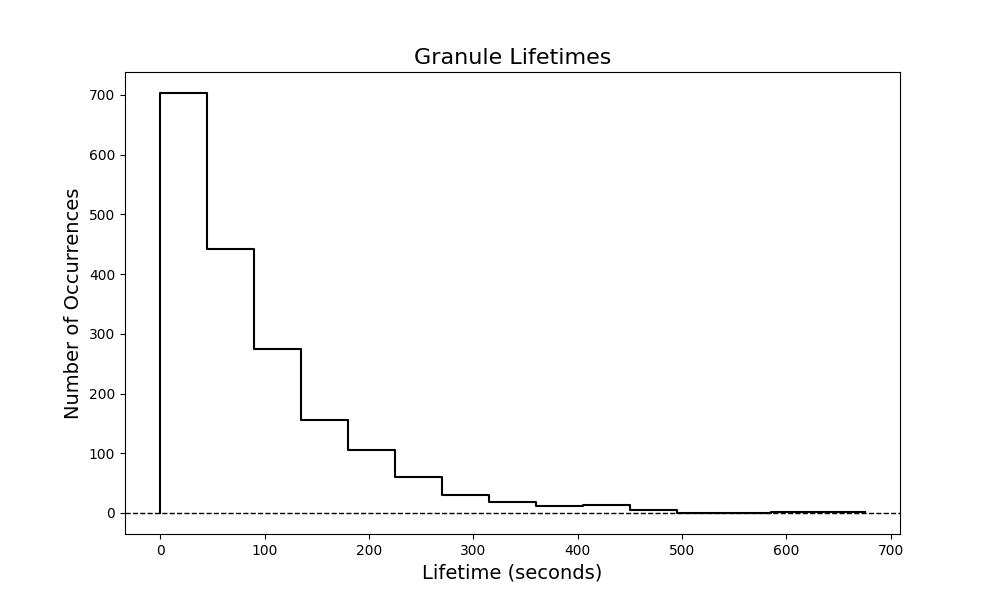
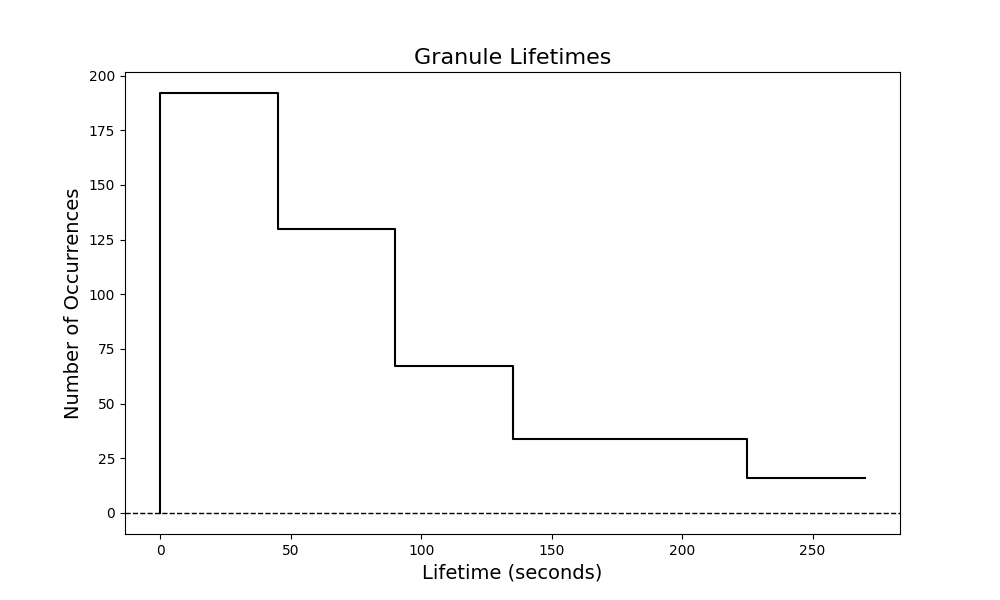
almost done

diff --git a/src/__main__.py b/src/__main__.py
@@ -18,7 +18,7 @@ file_folder = "NOAA_0-Fe/FITS_files"
 flow_velocity_threshold = 5 # km/s
 
 # Define minimum granule lifetime threshold in seconds (preferably a multiple of cadence)
-lifetime_threshold = 5 * 60  # seconds
+lifetime_threshold = 135  # seconds
 
 # Define data cadence
 cadence = 45  # seconds
@@ -31,128 +31,130 @@ roi_center = [0, 0] # Bottom-left corner of the region of interest (arcsecond co
 # Number of consective frames to process
 #num_frames =  #len(os.listdir(file_folder))  # Get the number of frames in the folder
 
-for num_frames in range(7, 36):
+#for num_frames in range(7, 36):
 
-    # Total time interval in seconds
-    temporal_window = num_frames * cadence
+num_frames = 7
 
-
-
-    trajectories_list = trajectories(num_frames, file_folder, flow_velocity_threshold, roi_size, roi_center)
-
-    filtered_trajectories = [
-        traj for traj in trajectories_list
-        if len(traj["frames"]) * cadence >= lifetime_threshold
-    ]
-
-    velocity_field = velocityField(filtered_trajectories, cadence)
+# Total time interval in seconds
+temporal_window = num_frames * cadence
 
 
 
-    ##### Wavelet MRA smoothing of the velocity field #####
+trajectories_list = trajectories(num_frames, file_folder, flow_velocity_threshold, roi_size, roi_center)
 
-    # Extract positions and velocities from the velocity field
-    positions = np.array([v["mean_position"] for v in velocity_field])
-    vx = np.array([v["velocity"][0].value for v in velocity_field])  # Extract x-component of velocity
-    vy = np.array([v["velocity"][1].value for v in velocity_field])  # Extract y-component of velocity
+filtered_trajectories = [
+    traj for traj in trajectories_list
+    if len(traj["frames"]) * cadence >= lifetime_threshold
+]
 
-    # Calculate the mean distance between nearest-neighbour points in the velocity field and store to a file for plotting
-    meanDistance(positions, temporal_window)
-
-    # Define grid resolution (must be dyadic?) #! This requires adjustment.
-    grid_resolution = 32
-
-    # Create a dyadic grid for the wavelet transform ????
-    xi = np.linspace(roi_center[0], roi_center[0] + roi_size*2, grid_resolution)  # X range based on region of interest
-    yi = np.linspace(roi_center[1], roi_center[1] + roi_size*2, grid_resolution)  # Y range based on region of interest
-    grid_x, grid_y = np.meshgrid(xi, yi)    # Create a meshgrid for the grid points
-
-    # Interpolate the velocities onto the grid using RBFInterpolator
-    rbf_vx = RBFInterpolator(positions, vx, kernel='thin_plate_spline') # What kernel to use and why?
-    rbf_vy = RBFInterpolator(positions, vy, kernel='thin_plate_spline')
-    grid_vx = rbf_vx(np.column_stack([grid_x.ravel(), grid_y.ravel()])).reshape(grid_x.shape)
-    grid_vy = rbf_vy(np.column_stack([grid_x.ravel(), grid_y.ravel()])).reshape(grid_y.shape)
-
-    # Apply wavelet MRA smoothing to the velocity grid
-    smoothed_vx = mraSmoothing(grid_vx, wavelet='db4', levels=2)
-    smoothed_vy = mraSmoothing(grid_vy, wavelet='db4', levels=2)
+velocity_field = velocityField(filtered_trajectories, cadence)
 
 
 
-    ########### Plotting the results ###########
-    print("\nCalculations complete! Plotting results:")
+##### Wavelet MRA smoothing of the velocity field #####
 
-    # Plot the trajectories and velocity field side by side
-    fig, axs = plt.subplots(2, 2, figsize=(20, 20))  # Create two subplots side by side
+# Extract positions and velocities from the velocity field
+positions = np.array([v["mean_position"] for v in velocity_field])
+vx = np.array([v["velocity"][0].value for v in velocity_field])  # Extract x-component of velocity
+vy = np.array([v["velocity"][1].value for v in velocity_field])  # Extract y-component of velocity
 
-    # Plot the trajectories
-    for trajectory in trajectories_list:
-        positions = np.array(trajectory["positions"])
-        axs[0,0].plot(positions[:, 0], positions[:, 1], marker='x', label=f'Trajectory {trajectory["id"]}')
-        axs[0,0].text(positions[-1, 0], positions[-1, 1], str(trajectory["id"]), fontsize=8, color='red')
+# Calculate the mean distance between nearest-neighbour points in the velocity field and store to a file for plotting
+meanDistance(positions, temporal_window)
 
-    axs[0,0].set_title("Trajectories")
-    axs[0,0].set_xlabel("X Position (pixels)")
-    axs[0,0].set_ylabel("Y Position (pixels)")
+# Define grid resolution (must be dyadic?) #! This requires adjustment.
+grid_resolution = 32
 
+# Create a dyadic grid for the wavelet transform ????
+xi = np.linspace(roi_center[0], roi_center[0] + roi_size*2, grid_resolution)  # X range based on region of interest
+yi = np.linspace(roi_center[1], roi_center[1] + roi_size*2, grid_resolution)  # Y range based on region of interest
+grid_x, grid_y = np.meshgrid(xi, yi)    # Create a meshgrid for the grid points
 
-    # Plot the velocity field
-    for velocity_data in velocity_field:
-        mean_position = velocity_data["mean_position"]
-        velocity = velocity_data["velocity"]
+# Interpolate the velocities onto the grid using RBFInterpolator
+rbf_vx = RBFInterpolator(positions, vx, kernel='thin_plate_spline') # What kernel to use and why?
+rbf_vy = RBFInterpolator(positions, vy, kernel='thin_plate_spline')
+grid_vx = rbf_vx(np.column_stack([grid_x.ravel(), grid_y.ravel()])).reshape(grid_x.shape)
+grid_vy = rbf_vy(np.column_stack([grid_x.ravel(), grid_y.ravel()])).reshape(grid_y.shape)
 
-        # Plot velocity vector as an arrow
-        axs[0,1].quiver(
-            mean_position[0], mean_position[1],  # Starting point of the arrow
-            velocity[0].value, velocity[1].value,  # Velocity components (x, y)
-            angles='xy', scale_units='xy', scale=1, label='Velocity'
-        )
-
-    axs[0,1].set_title("Velocity Field")
-    axs[0,1].set_xlabel("X Position (pixels)")
-    axs[0,1].set_ylabel("Y Position (pixels)")
-
-    axs[1,0].quiver(grid_x, grid_y, grid_vx, grid_vy, scale=1, scale_units='xy')
-    axs[1,0].set_title("Interpolated Velocity Field")
-
-    axs[1,1].quiver(grid_x, grid_y, smoothed_vx, smoothed_vy, scale=1, scale_units='xy')
-    axs[1,1].set_title("Smoothed Velocity Field")
-
-
-    # Add a shared title for the figure
-    fig.suptitle("Velocity Field", fontsize=16)
-
-    # Save the plot
-    os.makedirs('plots', exist_ok=True)
-    output_path = os.path.join('plots', 'MRA_velocity_field.png')
-    plt.savefig(output_path)
-    print(f"Velocity field plots saved to {output_path}")
+# Apply wavelet MRA smoothing to the velocity grid
+smoothed_vx = mraSmoothing(grid_vx, wavelet='db4', levels=2)
+smoothed_vy = mraSmoothing(grid_vy, wavelet='db4', levels=2)
 
 
 
-    # Extract granule lifetimes from trajectories
-    granule_lifetimes = [len(traj["frames"]) * cadence for traj in trajectories_list]  # Lifetime in seconds
+########### Plotting the results ###########
+print("\nCalculations complete! Plotting results:")
 
-    # Define bins based on valid multiples of cadence
-    max_lifetime = max(granule_lifetimes)  # Maximum lifetime
-    bins = np.arange(0, max_lifetime + cadence, cadence)  # Bins at intervals of cadence
+# Plot the trajectories and velocity field side by side
+fig, axs = plt.subplots(2, 2, figsize=(20, 20))  # Create two subplots side by side
 
-    # Create a histogram of granule lifetimes
-    plt.figure(figsize=(10, 6))
-    counts, bin_edges = np.histogram(granule_lifetimes, bins=bins)  # Compute histogram data
-    plt.step(bin_edges[:-1], counts, where='pre', color='black', linewidth=1.5)  # Step plot
+# Plot the trajectories
+for trajectory in trajectories_list:
+    positions = np.array(trajectory["positions"])
+    axs[0,0].plot(positions[:, 0], positions[:, 1], marker='x', label=f'Trajectory {trajectory["id"]}')
+    axs[0,0].text(positions[-1, 0], positions[-1, 1], str(trajectory["id"]), fontsize=8, color='red')
 
-    # Add dashed line at y=0
-    plt.axhline(0, color='black', linestyle='--', linewidth=1)
+axs[0,0].set_title("Trajectories")
+axs[0,0].set_xlabel("X Position (pixels)")
+axs[0,0].set_ylabel("Y Position (pixels)")
 
-    plt.title("Granule Lifetimes", fontsize=16)
-    plt.xlabel("Lifetime (seconds)", fontsize=14)
-    plt.ylabel("Number of Occurrences", fontsize=14)
 
-    # Save the plot
-    os.makedirs('plots', exist_ok=True)
-    output_path = os.path.join('plots', 'granule_lifetimes.png')
-    plt.savefig(output_path)
-    print(f"Granule lifetimes plot saved to {output_path}")
+# Plot the velocity field
+for velocity_data in velocity_field:
+    mean_position = velocity_data["mean_position"]
+    velocity = velocity_data["velocity"]
 
-    print("\n")
+    # Plot velocity vector as an arrow
+    axs[0,1].quiver(
+        mean_position[0], mean_position[1],  # Starting point of the arrow
+        velocity[0].value, velocity[1].value,  # Velocity components (x, y)
+        angles='xy', scale_units='xy', scale=1, label='Velocity'
+    )
+
+axs[0,1].set_title("Velocity Field")
+axs[0,1].set_xlabel("X Position (pixels)")
+axs[0,1].set_ylabel("Y Position (pixels)")
+
+axs[1,0].quiver(grid_x, grid_y, grid_vx, grid_vy, scale=1, scale_units='xy')
+axs[1,0].set_title("Interpolated Velocity Field")
+
+axs[1,1].quiver(grid_x, grid_y, smoothed_vx, smoothed_vy, scale=1, scale_units='xy')
+axs[1,1].set_title("Smoothed Velocity Field")
+
+
+# Add a shared title for the figure
+fig.suptitle("Velocity Field", fontsize=16)
+
+# Save the plot
+os.makedirs('plots', exist_ok=True)
+output_path = os.path.join('plots', 'MRA_velocity_field.png')
+plt.savefig(output_path)
+print(f"Velocity field plots saved to {output_path}")
+
+
+
+# Extract granule lifetimes from trajectories
+granule_lifetimes = [len(traj["frames"]) * cadence for traj in trajectories_list]  # Lifetime in seconds
+
+# Define bins based on valid multiples of cadence
+max_lifetime = max(granule_lifetimes)  # Maximum lifetime
+bins = np.arange(0, max_lifetime + cadence, cadence)  # Bins at intervals of cadence
+
+# Create a histogram of granule lifetimes
+plt.figure(figsize=(10, 6))
+counts, bin_edges = np.histogram(granule_lifetimes, bins=bins)  # Compute histogram data
+plt.step(bin_edges[:-1], counts, where='pre', color='black', linewidth=1.5)  # Step plot
+
+# Add dashed line at y=0
+plt.axhline(0, color='black', linestyle='--', linewidth=1)
+
+plt.title("Granule Lifetimes", fontsize=16)
+plt.xlabel("Lifetime (seconds)", fontsize=14)
+plt.ylabel("Number of Occurrences", fontsize=14)
+
+# Save the plot
+os.makedirs('plots', exist_ok=True)
+output_path = os.path.join('plots', 'granule_lifetimes.png')
+plt.savefig(output_path)
+print(f"Granule lifetimes plot saved to {output_path}")
+
+print("\n")

diff --git a/test/visualisation.py b/test/visualisation.py
@@ -2,6 +2,10 @@ import matplotlib.pyplot as plt
 import os
 import numpy as np
 import pandas as pd
+from scipy.interpolate import interp1d
+
+# Find delta_t for which d = 1.25 Mm
+target_distance = 1.25  # Target mean distance in Mm
 
 # Define the path to the output directory
 output_dir = r'C:/Users/AlexC/source/repos/solar_granulations/output'
@@ -16,29 +20,47 @@ for file_name in os.listdir(output_dir):
     
     # Extract the data, skip the first line
     data = pd.read_csv(file_path, sep='\t', skiprows=1, names=['Temporal_Window', 'Mean_Distance'])
+
+    # Convert Mean_Distance from pixels to Mm (1 pixel = 0.725 Mm)
+    data['Mean_Distance'] = data['Mean_Distance'] * 0.725
     
     # Store the data in the dictionary with the file name as the key
     file_data[file_name] = data
+
+    # Interpolate the data
+    interpolation = interp1d(data['Mean_Distance'], data['Temporal_Window'], kind='linear', fill_value="extrapolate")
+    
+    # Calculate delta_t for the target distance
+    delta_t = interpolation(target_distance)
+    print(f"For file '{file_name}', delta_t for d = {target_distance} Mm is approximately {delta_t:.2f} seconds.")
+
+
 
 # Plot the data from each file as a separate line
 plt.figure(figsize=(10, 10))
 for file_name, data in file_data.items():
     plt.plot(
-        data["Temporal_Window"],
-        data["Mean_Distance"],
+        data['Temporal_Window'],
+        data['Mean_Distance'],
         marker='o',
         label=file_name
     )
 
-#plt.xscale('log', base=10)
+plt.xscale('log', base=10)
 
-plt.title("Mean Distance between Measured Velocities vs Temporal Window")
-plt.xlabel("Temporal Window (s)")
-plt.ylabel("Mean Distance (pixels)")
-plt.legend(title="Files")
+# Set x-axis limits to start at 10^2 and end at 2*10^3
+plt.xlim(10**2, 2 * 10**3)
+
+# Explicitly set x-axis ticks
+plt.xticks([10**2, 10**3, 2 * 10**3], labels=["$10^2$", "$10^3$", "$2 \\times 10^3$"])
+
+plt.title('Mean Distance between Measured Velocities vs Temporal Window')
+plt.xlabel('Temporal Window (s)')
+plt.ylabel('Mean Distance (Mm)')
+plt.legend(title='Files')
 plt.grid()
 
 os.makedirs('plots', exist_ok=True)
 output_path = os.path.join('plots', 'mean_distance_vs_temporal_window.png')
 plt.savefig(output_path)
-print(f"Mean Distance plot saved to {output_path}")
+print(f'Mean Distance plot saved to {output_path}')
